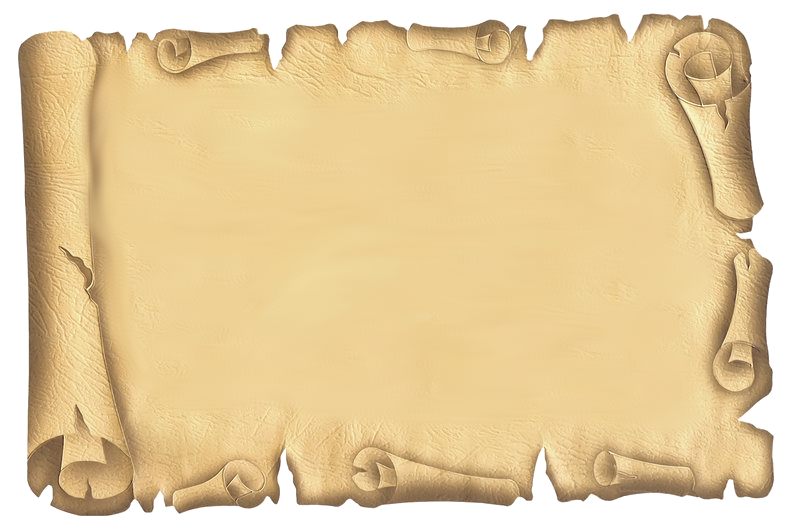
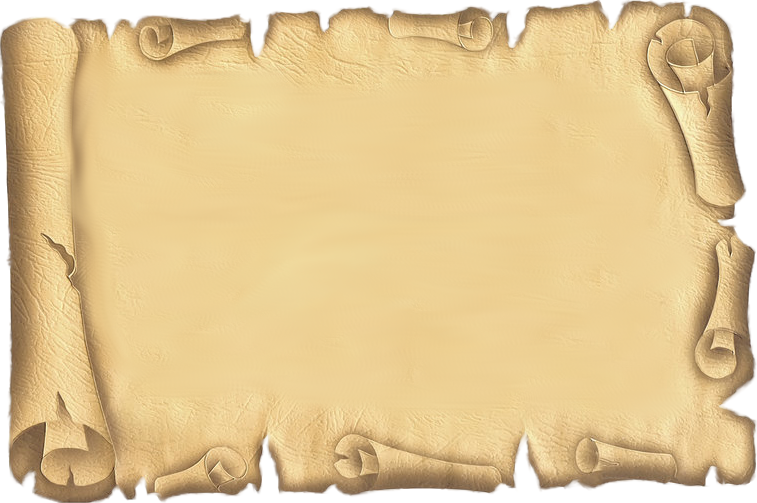
last changes

Changed region(s): [[0.0, 0.0, 1.0, 1.0]]

diff --git a/js/main.js b/js/main.js
@@ -89,9 +89,9 @@ const loadPage1 = () => {
     }
     const content = '<div style="font-size: 22px">' +
         '<h1>2021 Encuentro</h1>' +
-        'Gracias a Óscar invitan a Jose al cumpleaños de Mar, es ahí donde conoce por primera vez a nuestra ex-rubia favorita ¡Sofi!<br>' +
-        'Ella llega tarde por el curro, pero al llegar, sin conocer de nada a Jose, comenta que le suena su cara.<br>' +
-        'Es ahí cuando Jose nota por lo social que es nuestra protagonista Sofi que ella podría ser muy buena amistad' +
+        'Gracias a Óscar invitan a Jose al cumpleaños de Mar,<br> es ahí donde conoce por primera vez a nuestra ex-rubia favorita ¡Sofi!<br>' +
+        'Ella llega tarde por el curro, pero sin conocer de nada a Jose,<br> comenta que le suena su cara.<br>' +
+        'Es ahí cuando Jose nota que ella podría ser muy buena amistad.' +
         '</div>'
     getMainContent().innerHTML = content;
     getMainContent().innerHTML += addPageControlButton(2, null);
@@ -100,7 +100,8 @@ const loadPage1 = () => {
 const loadPage2 = () => {
     const content = '<div>' +
         '<h1>2021 Halloween</h1>' +
-        'Pasan los meses y después de un par de quedadas deciden hacer una fiesta de halloween<br>' +
+        'Pasan los meses y después de un par de quedadas<br>' +
+        'deciden hacer una fiesta de halloween...<br>' +
         '<div class="center-content">' +
         '<img src="./media/images/sofia/halloween1.jpg"/>' +
         '<img style="padding-left: 1rem;" src="./media/images/sofia/halloween2.jpeg"/>' +
@@ -113,7 +114,8 @@ const loadPage2 = () => {
 const loadPage3 = () => {
     const content = '<div>' +
         '<h1>2021 Feria</h1>' +
-        '¡Winter is coming! Así que es época de feria y allí que fueron<br>' +
+        '¡Winter is coming!<br>' +
+        'Así que es época de feria y allí que fueron...<br>' +
         '<div class="center-content">' +
         '<img src="./media/images/sofia/feria1.jpg"/>' +
         '<img style="padding-left: 1rem;" src="./media/images/sofia/feria2.jpg"/>' +
@@ -127,7 +129,8 @@ const loadPage4 = () => {
     const content = '<div>' +
         '<h1>2021 Tú cumpleaños (¿¡Otra vez!?)</h1>' +
         'Un año ha pasado ya desde aquel día, pero aquí siguen ambos<br>' +
-        'Esperemos que este año lo pases mejor que el anterior, <br> pero no tan bien como el siguiente! <br>' +
+        'Esperemos que este año lo pases mejor que el anterior, <br>' +
+        '¡pero no tan bien como el siguiente! <br>' +
         '<div class="center-content">' +
         '<img style="transform: rotate(-90deg)" src="./media/images/sofia/cumple sofi.jpg"/>' +
         '<img style="padding-left: 0.5rem;" src="./media/images/sofia/cumple sofi2.jpg"/>' +
@@ -140,8 +143,8 @@ const loadPage4 = () => {
 const loadPage5 = () => {
     const content = '<div>' +
         '<h1>2021 Nochevieja</h1>' +
-        'Ya hay muy buen rollo entre ellos y deciden invitarle a nochevieja<br>' +
-        'Aun comiendo sandwiches por nochevieja fueron días muy divertidos <br>' +
+        'Ya hay muy buen rollo entre ellos y deciden invitarle a nochevieja.<br>' +
+        'Aun comiendo sandwiches por nochevieja fueron días muy divertidos.<br>' +
         '<div class="center-content">' +
         '<img src="./media/images/sofia/nochevieja.jpg"/>' +
         '<img style="padding-left: 0.5rem;" src="./media/images/sofia/nochevieja2.jpg"/>' +
@@ -168,7 +171,8 @@ const loadPage7 = () => {
     const content = '<div>' +
         '<h1>2022 Cumple David</h1>' +
         '¿Y en el cumple del amante de scape rooms?<br>' +
-        'Pues se decidió hacer un hall scape en el que acabó perdiendo el equipo del cumpleañero <br>' +
+        '¡Pues se decidió hacer un hall scape!<br>' +
+        'Aunque el equipo con más expertos es el acabó perdiendo <br>' +
         '<div class="center-content">' +
         '<img src="./media/images/sofia/cumple david.jpg"/>' +
         '</div>'
@@ -188,7 +192,7 @@ const loadPage8 = () => {
     const content = '<div>' +
         '<h1>2022 Cumple Choco</h1>' +
         '¿Y porqué no hacer algo distinto a lo que el cumpleañero normalmente hace?<br>' +
-        'Pues aquí los tienes después de tirar con el arco<br>' +
+        'Pues aquí los tienes después de tirar con el arco...<br>' +
         '<div class="center-content">' +
         '<img src="./media/images/sofia/cumple choco.jpg"/>' +
         '</div>'

diff --git a/styles.css b/styles.css
@@ -292,14 +292,12 @@ body,
     height: 100%;
     margin: 0;
     padding: 0;
-    overflow: hidden;
 }
 
 body {
     position: fixed;
     height: 100vh;
     width: 100vw;
-    overflow: hidden;
     top: 0;
     bottom: 0;
     left: 0;
@@ -361,7 +359,7 @@ body {
     width: 50px;
     height: 50px;
     position: fixed;
-    left: 80%;
+    left: 79%;
     bottom: 12%;
     margin: 0 auto;
 }
@@ -374,7 +372,7 @@ body {
     width: 50px;
     height: 50px;
     position: fixed;
-    right: 72%;
+    right: 71%;
     bottom: 12%;
     margin: 0 auto;
 }
@@ -394,7 +392,7 @@ body {
 #main-content {
     background-image: url("./media/images/papiro.png");
     background-position: center center;
-    background-size: 100%;
+    background-size: 91%;
     background-repeat: no-repeat;
     height: 100vh;
     width: 75vw;

diff --git a/index.html b/index.html
@@ -15,7 +15,7 @@
         <div>
             Sofi, Dobby te desea feliz cumpleaños y tu amigo Jose también <br>
             Espero que disfrutes de esta historia que Dobby te va a contar<br>
-            <b><i>Te recomiendo usar cascos o al menos tener la música activada</i></b>
+            <b><i>Te recomiendo tener la música activada y verlo desde un ordenador</i></b>
             <div style="display: flex; align-items: center;justify-content: center; flex-direction: column;padding-top: 1rem;">
                 <p>Pulsa en comenzar cuando estés lista</p>
                 <div id="start" onclick="start()"><span >Comenzar</span></div>
